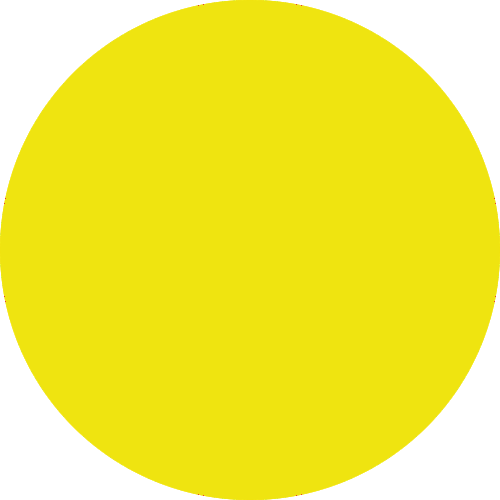
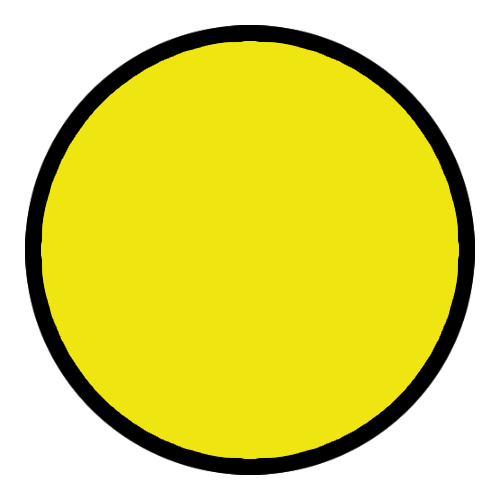
#24 Add black shapes activities

Changed region(s): [[0.0, 0.0, 1.0, 1.0]]

diff --git a/pages/shapes_max.html b/pages/shapes_max.html
@@ -23,12 +23,12 @@
       const imgPath = "../images/items/shapes/";
       function initActivityItems(){
         activityItems = [
-          {name: 'square', imagePath: imgPath + 'squareBlack.png', audioPath: sndPath + 'square.ogg'},
-          {name: 'rectangle', imagePath: imgPath + 'rectangleBlack.png', audioPath: sndPath + 'rectangle.ogg'},
-          {name: 'circle', imagePath: imgPath + 'circleBlack.png', audioPath: sndPath + 'circle.ogg'},
-          {name: 'triangle', imagePath: imgPath + 'triangleBlack.png', audioPath: sndPath + 'triangle.ogg'},
-          {name: 'star', imagePath: imgPath + 'starBlack.png', audioPath: sndPath + 'star.ogg'},
-          {name: 'diamond', imagePath: imgPath + 'diamondBlack.png', audioPath: sndPath + 'diamond.ogg'}
+          {name: 'square', imagePath: imgPath + 'squareWhite.png', audioPath: sndPath + 'square.ogg'},
+          {name: 'rectangle', imagePath: imgPath + 'rectangleWhite.png', audioPath: sndPath + 'rectangle.ogg'},
+          {name: 'circle', imagePath: imgPath + 'circleWhite.png', audioPath: sndPath + 'circle.ogg'},
+          {name: 'triangle', imagePath: imgPath + 'triangleWhite.png', audioPath: sndPath + 'triangle.ogg'},
+          {name: 'star', imagePath: imgPath + 'starWhite.png', audioPath: sndPath + 'star.ogg'},
+          {name: 'diamond', imagePath: imgPath + 'diamondWhite.png', audioPath: sndPath + 'diamond.ogg'}
         ]
       }
     </script>

diff --git a/pages/shapes_med.html b/pages/shapes_med.html
@@ -23,11 +23,11 @@
       const imgPath = "../images/items/shapes/";
       function initActivityItems(){
         activityItems = [
-          {name: 'square', imagePath: imgPath + 'squareBlack.png', audioPath: sndPath + 'square.ogg'},
-          {name: 'rectangle', imagePath: imgPath + 'rectangleBlack.png', audioPath: sndPath + 'rectangle.ogg'},
-          {name: 'circle', imagePath: imgPath + 'circleBlack.png', audioPath: sndPath + 'circle.ogg'},
-          {name: 'triangle', imagePath: imgPath + 'triangleBlack.png', audioPath: sndPath + 'triangle.ogg'},
-          {name: 'star', imagePath: imgPath + 'starBlack.png', audioPath: sndPath + 'star.ogg'}
+          {name: 'square', imagePath: imgPath + 'squareWhite.png', audioPath: sndPath + 'square.ogg'},
+          {name: 'rectangle', imagePath: imgPath + 'rectangleWhite.png', audioPath: sndPath + 'rectangle.ogg'},
+          {name: 'circle', imagePath: imgPath + 'circleWhite.png', audioPath: sndPath + 'circle.ogg'},
+          {name: 'triangle', imagePath: imgPath + 'triangleWhite.png', audioPath: sndPath + 'triangle.ogg'},
+          {name: 'star', imagePath: imgPath + 'starWhite.png', audioPath: sndPath + 'star.ogg'}
         ]
       }
     </script>

diff --git a/pages/shapes_min.html b/pages/shapes_min.html
@@ -23,10 +23,10 @@
       const imgPath = "../images/items/shapes/";
       function initActivityItems(){
         activityItems = [
-                 {name: 'square', imagePath: imgPath + 'squareBlack.png', audioPath: sndPath + 'square.ogg'},
-                 {name: 'rectangle', imagePath: imgPath + 'rectangleBlack.png', audioPath: sndPath + 'rectangle.ogg'},
-                 {name: 'circle', imagePath: imgPath + 'circleBlack.png', audioPath: sndPath + 'circle.ogg'},
-                 {name: 'triangle', imagePath: imgPath + 'triangleBlack.png', audioPath: sndPath + 'triangle.ogg'}
+                 {name: 'square', imagePath: imgPath + 'squareWhite.png', audioPath: sndPath + 'square.ogg'},
+                 {name: 'rectangle', imagePath: imgPath + 'rectangleWhite.png', audioPath: sndPath + 'rectangle.ogg'},
+                 {name: 'circle', imagePath: imgPath + 'circleWhite.png', audioPath: sndPath + 'circle.ogg'},
+                 {name: 'triangle', imagePath: imgPath + 'triangleWhite.png', audioPath: sndPath + 'triangle.ogg'}
         ]
       }
     </script>
